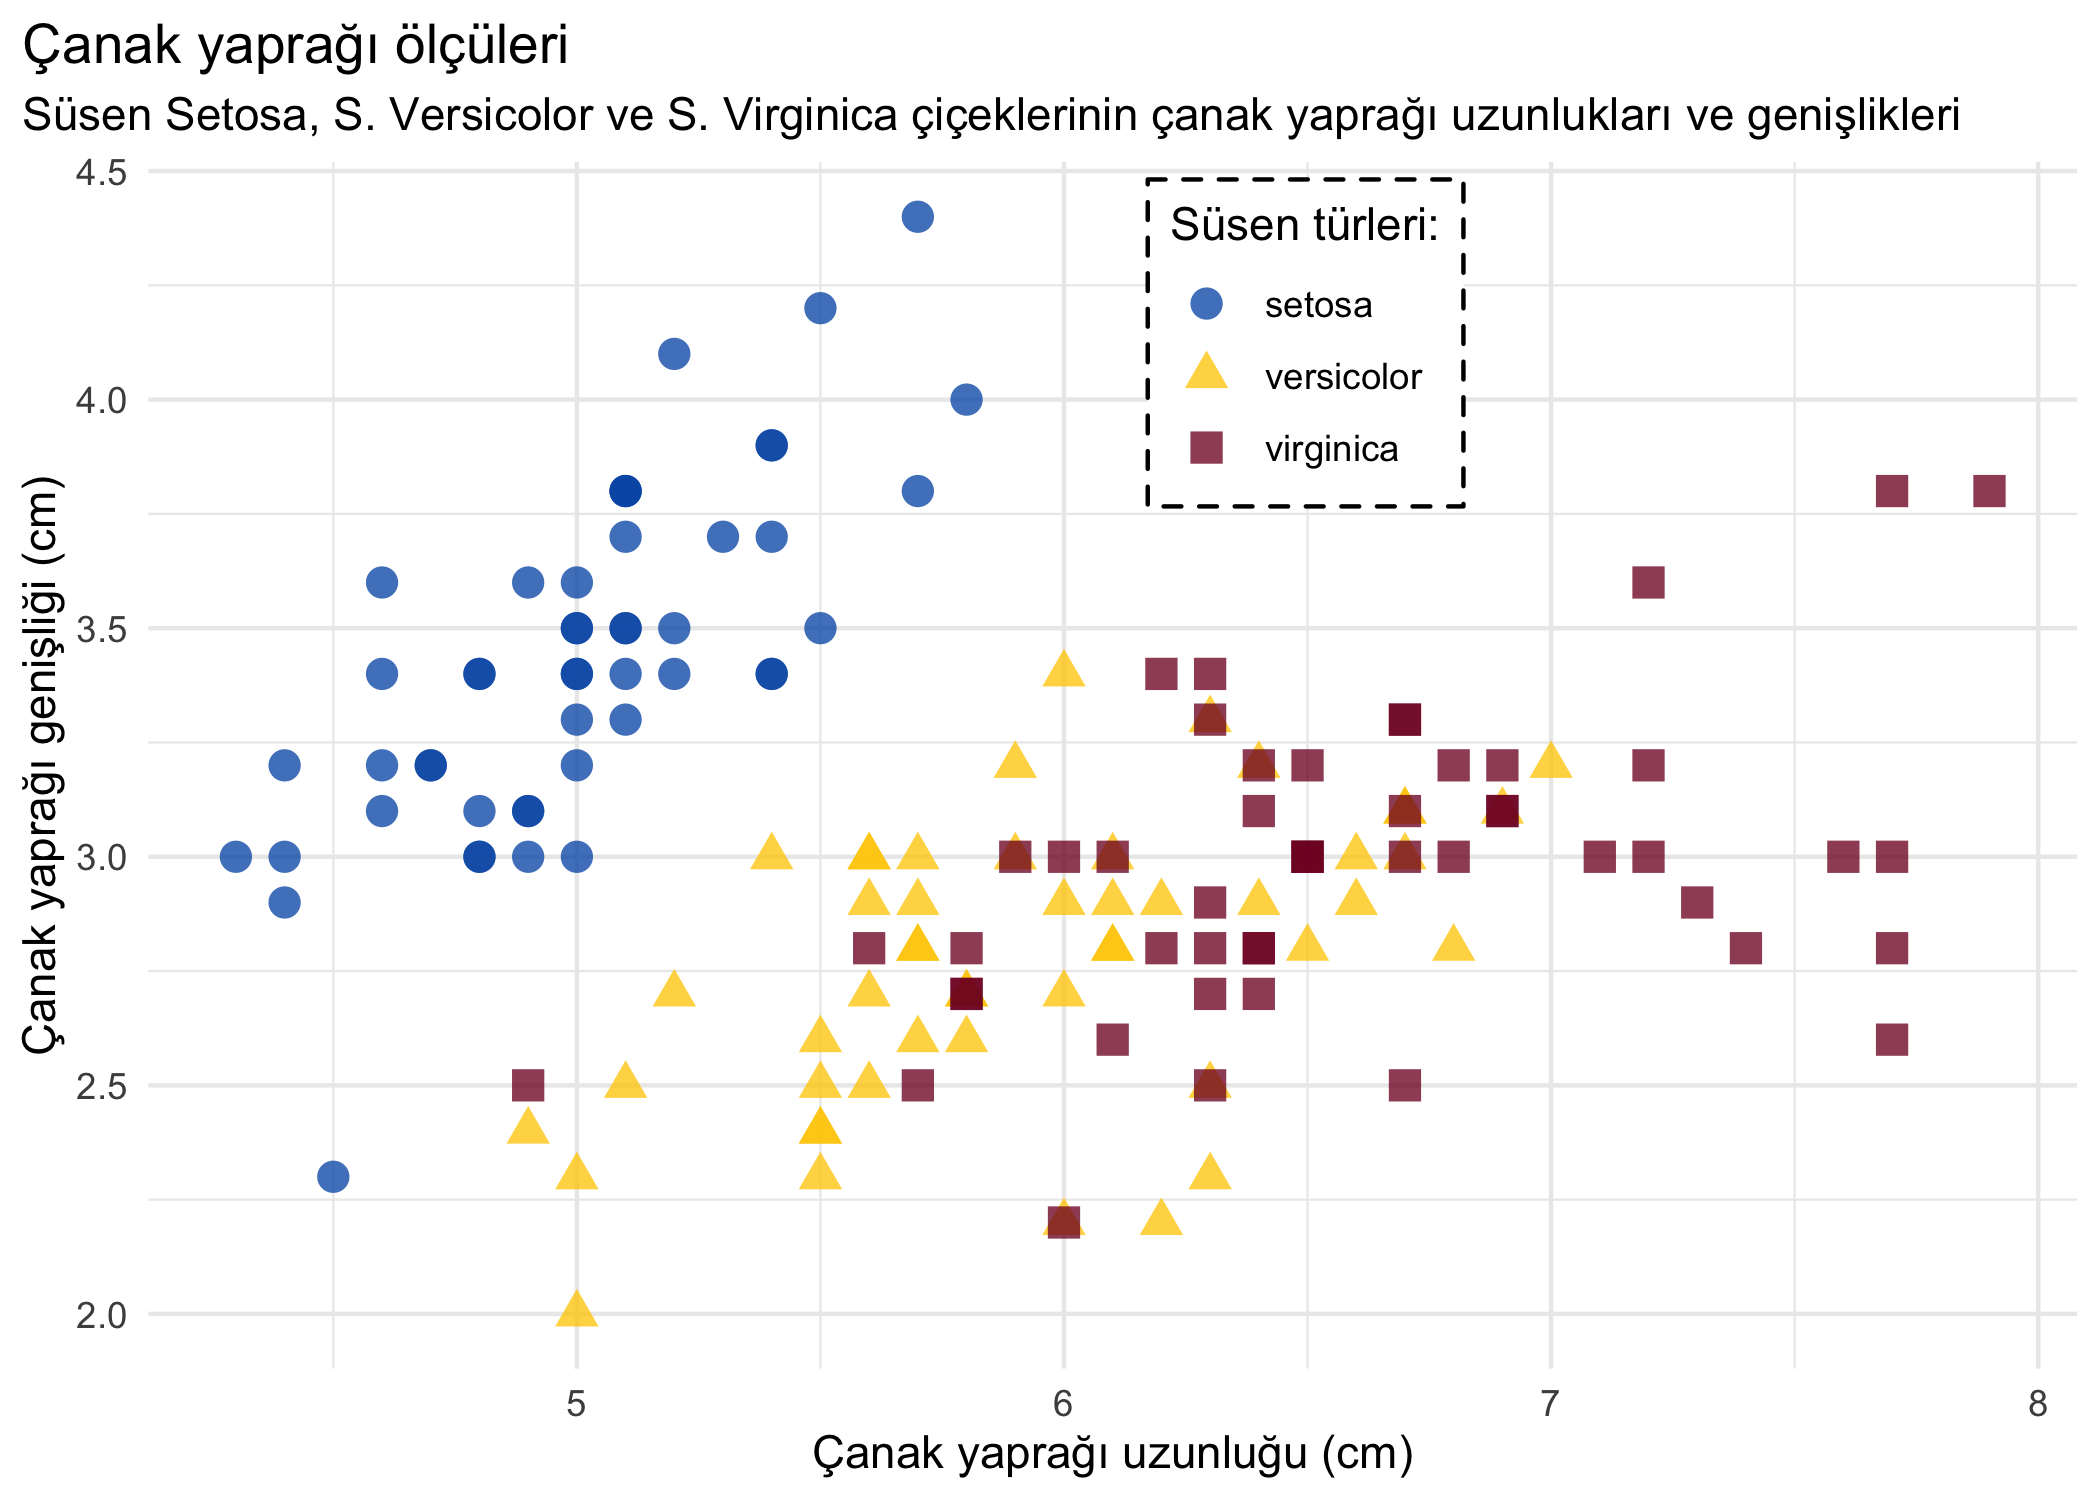
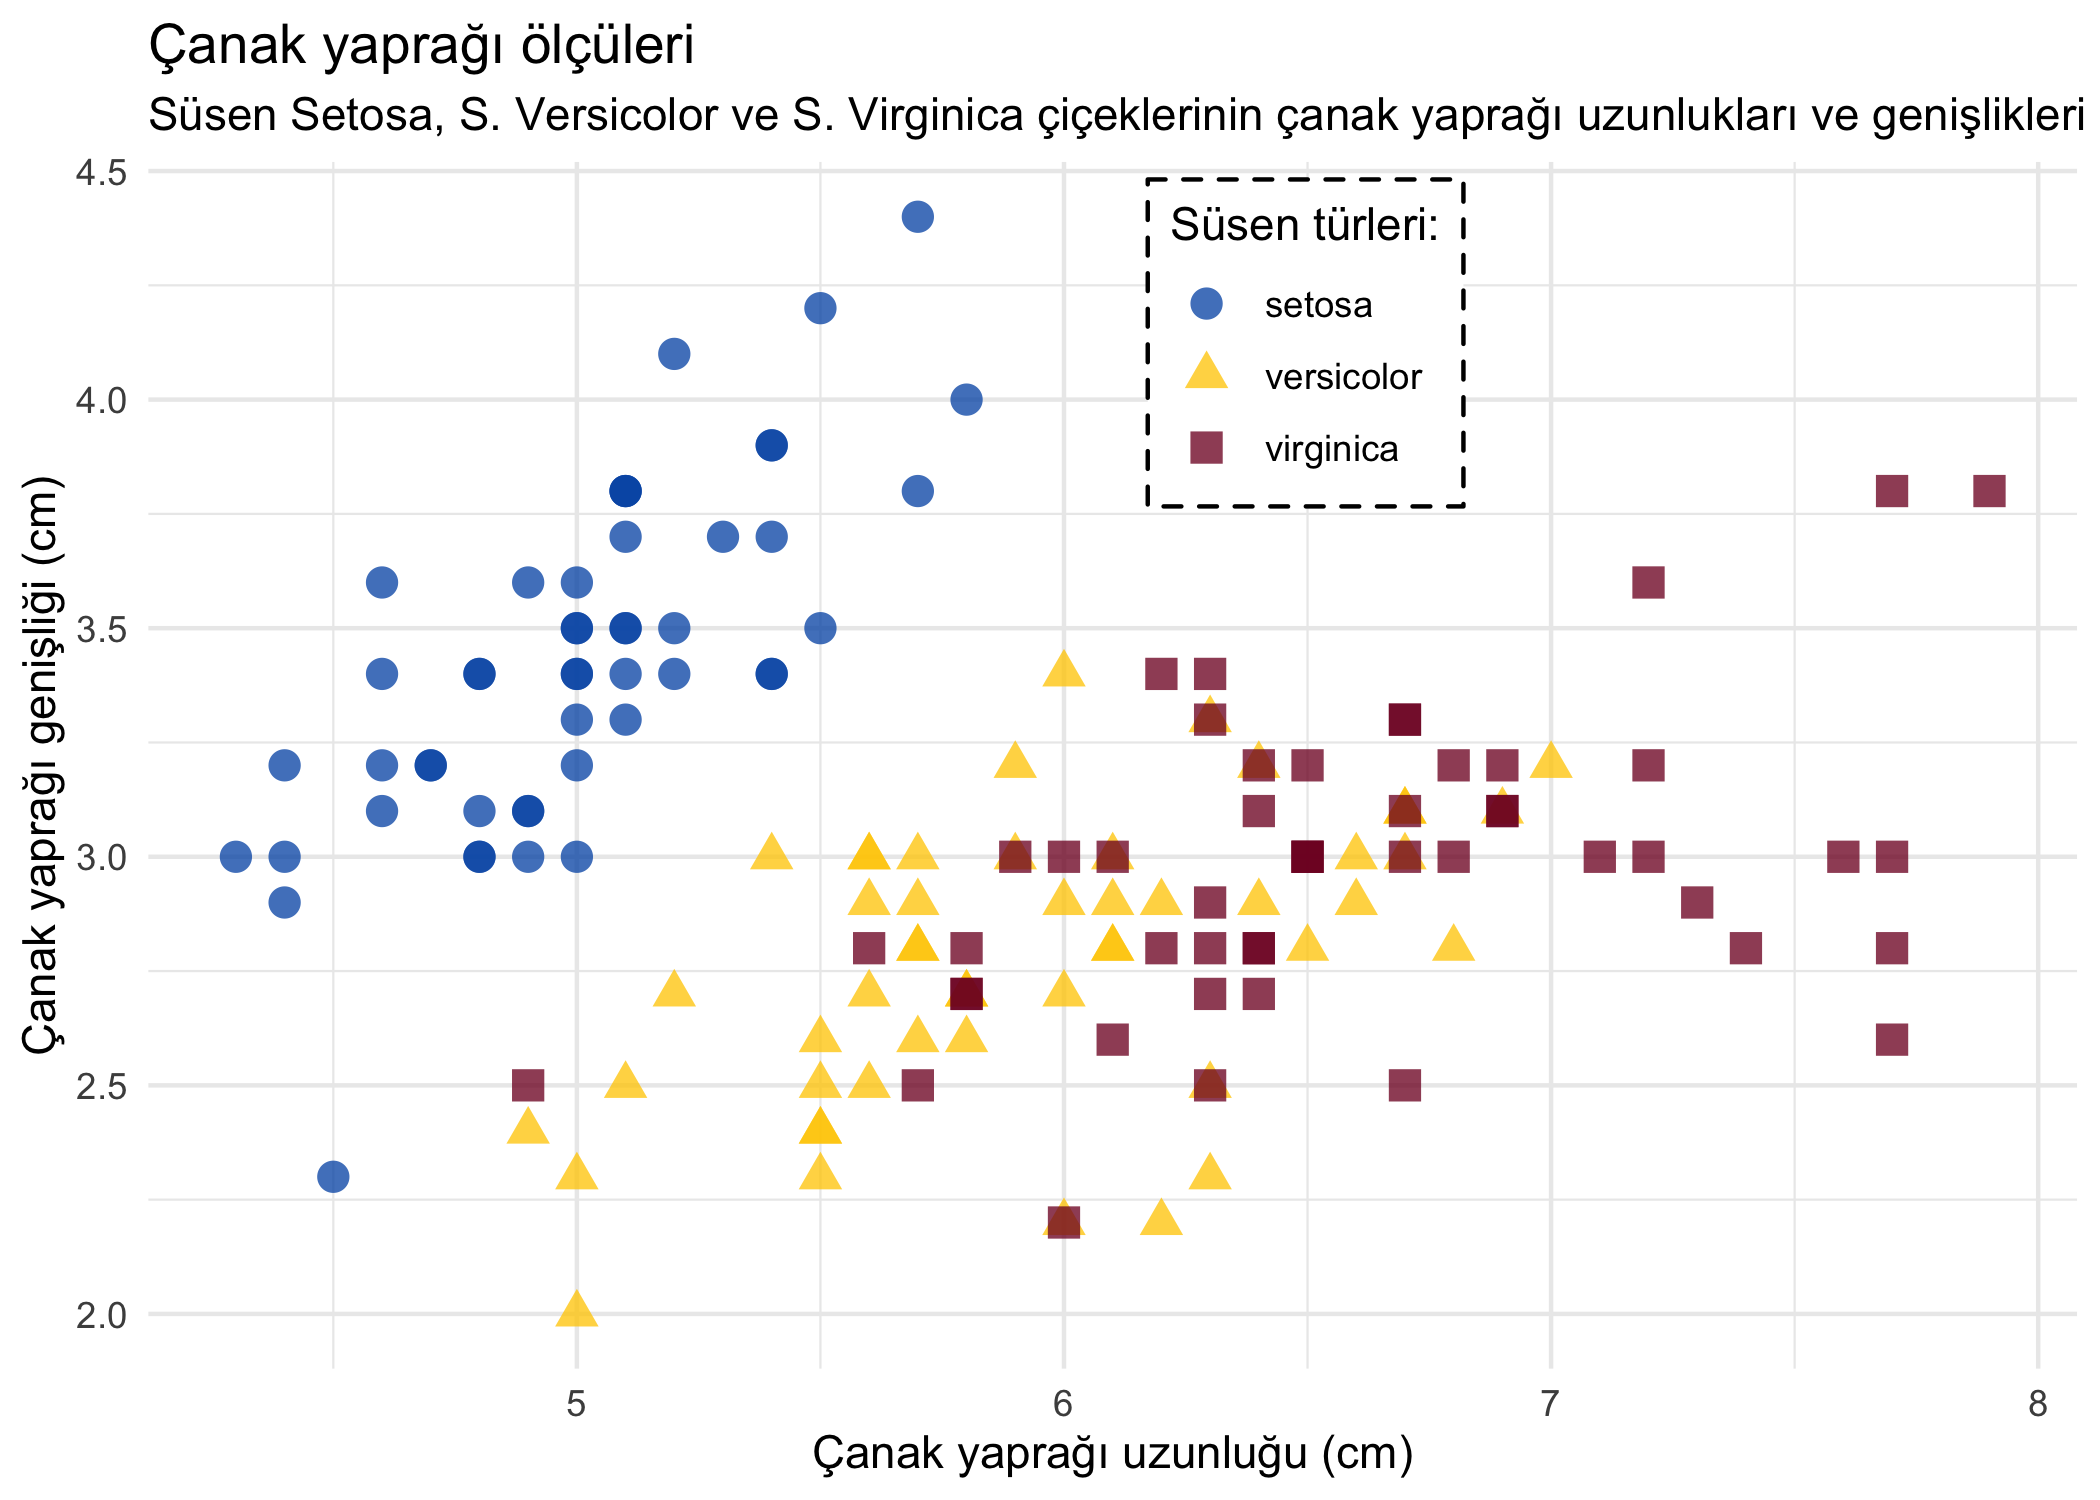
README dosyasını güncelle

Changed region(s): [[0.0, 0.0, 0.9905, 0.092]]

diff --git a/README.md b/README.md
@@ -28,6 +28,7 @@ remotes::install_github("botan/veriler")
 | miller        | 38 popüler otomobil modeli için 1999’dan 2008’e kadar yakıt ekonomisi verileri | ggplot2      | mpg      |
 | havayolları   | Havayolu adları                                                                | nycflights13 | airlines |
 | havalimanları | Havalimanları kılavuzu                                                         | nycflights13 | airports |
+| uçaklar       | Uçak kılavuz verileri                                                          | nycflights13 | planes   |
 | hava\_durumu  | Saatlik hava durumu verisi                                                     | nycflights13 | weather  |
 
 ## Örnek
@@ -61,12 +62,11 @@ ggplot(süsen, aes(çanak_uzunluğu, çanak_genişliği, colour = tür, shape = 
   ) +
   theme(
     legend.position = c(.6, .85),
-    legend.background  = element_rect(linetype = "dashed"),
-    plot.title.position = "plot"
+    legend.background  = element_rect(linetype = "dashed")
   )
 ```
 
-<img src="man/figures/README-example-1.png" width="80%" />
+<img src="man/figures/README-example-1.png" width="90%" />
 
 ## Dahili kodlar
 
